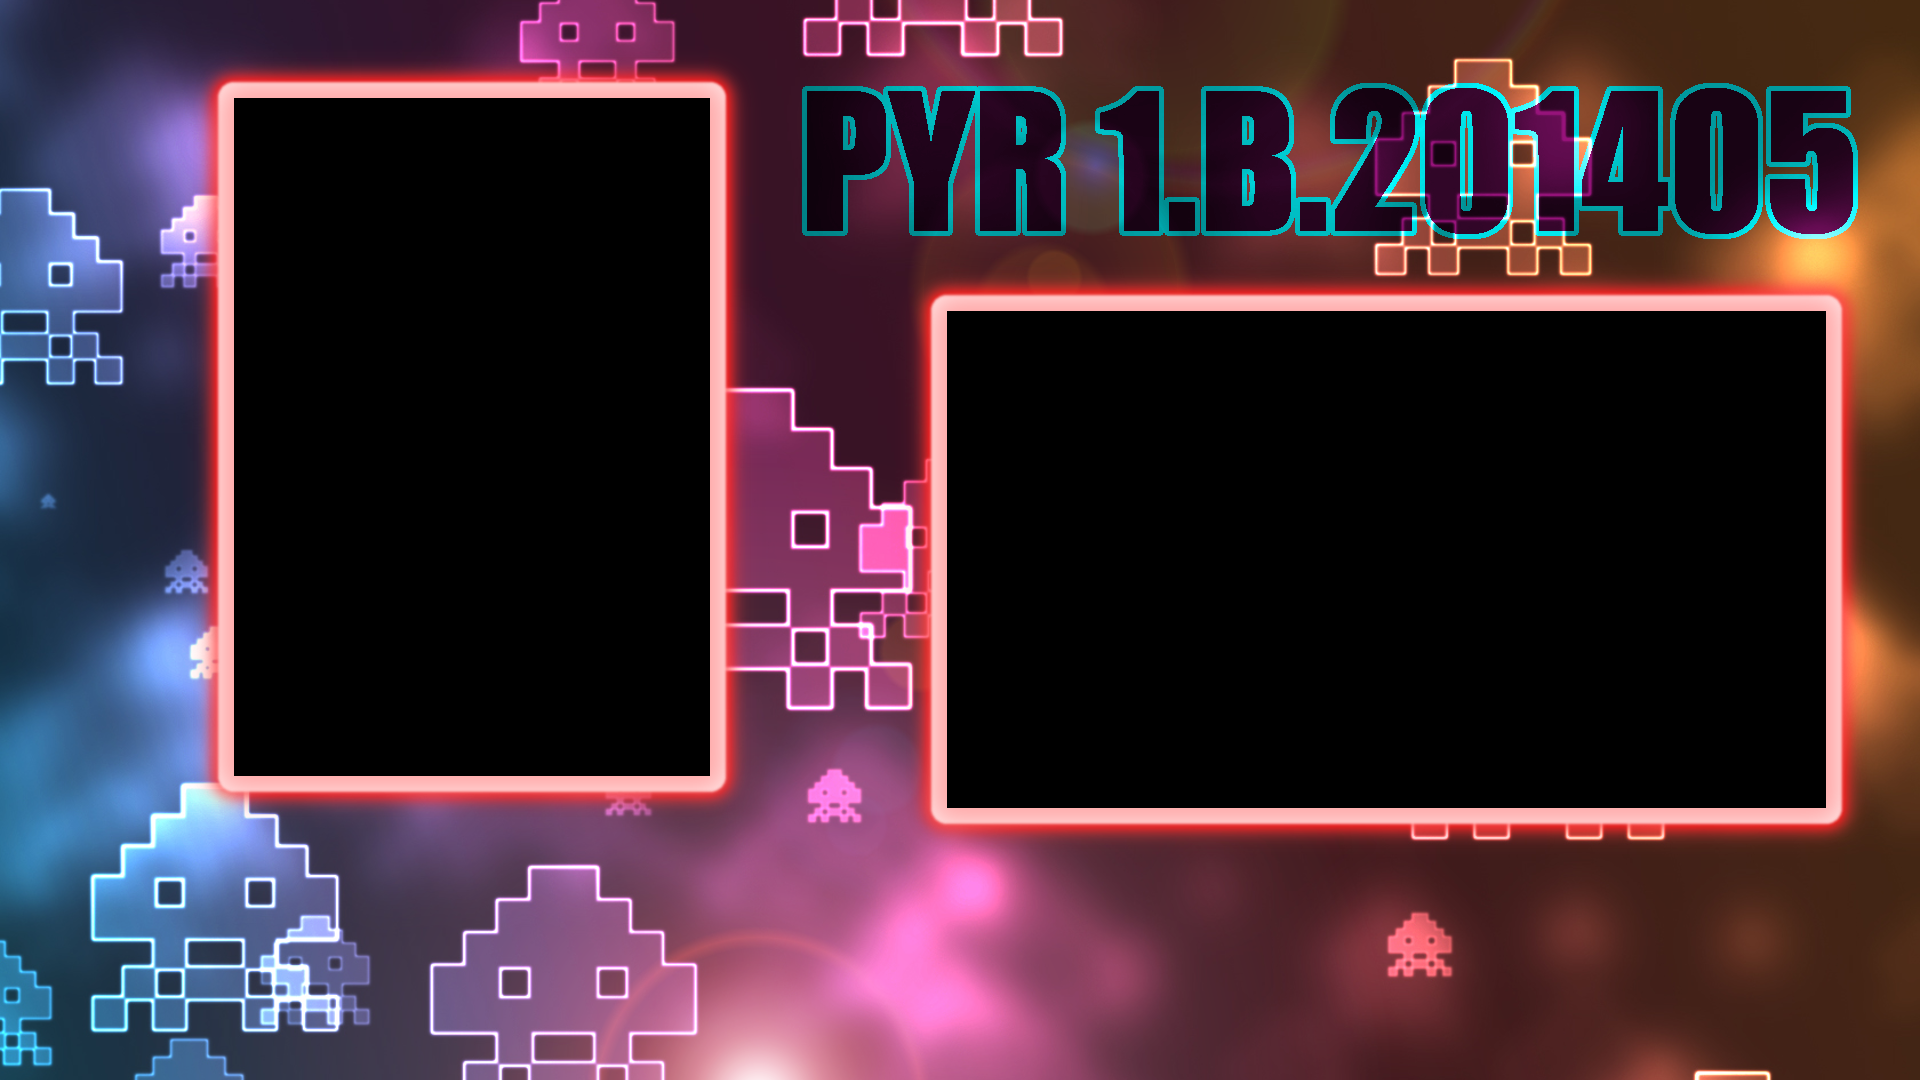
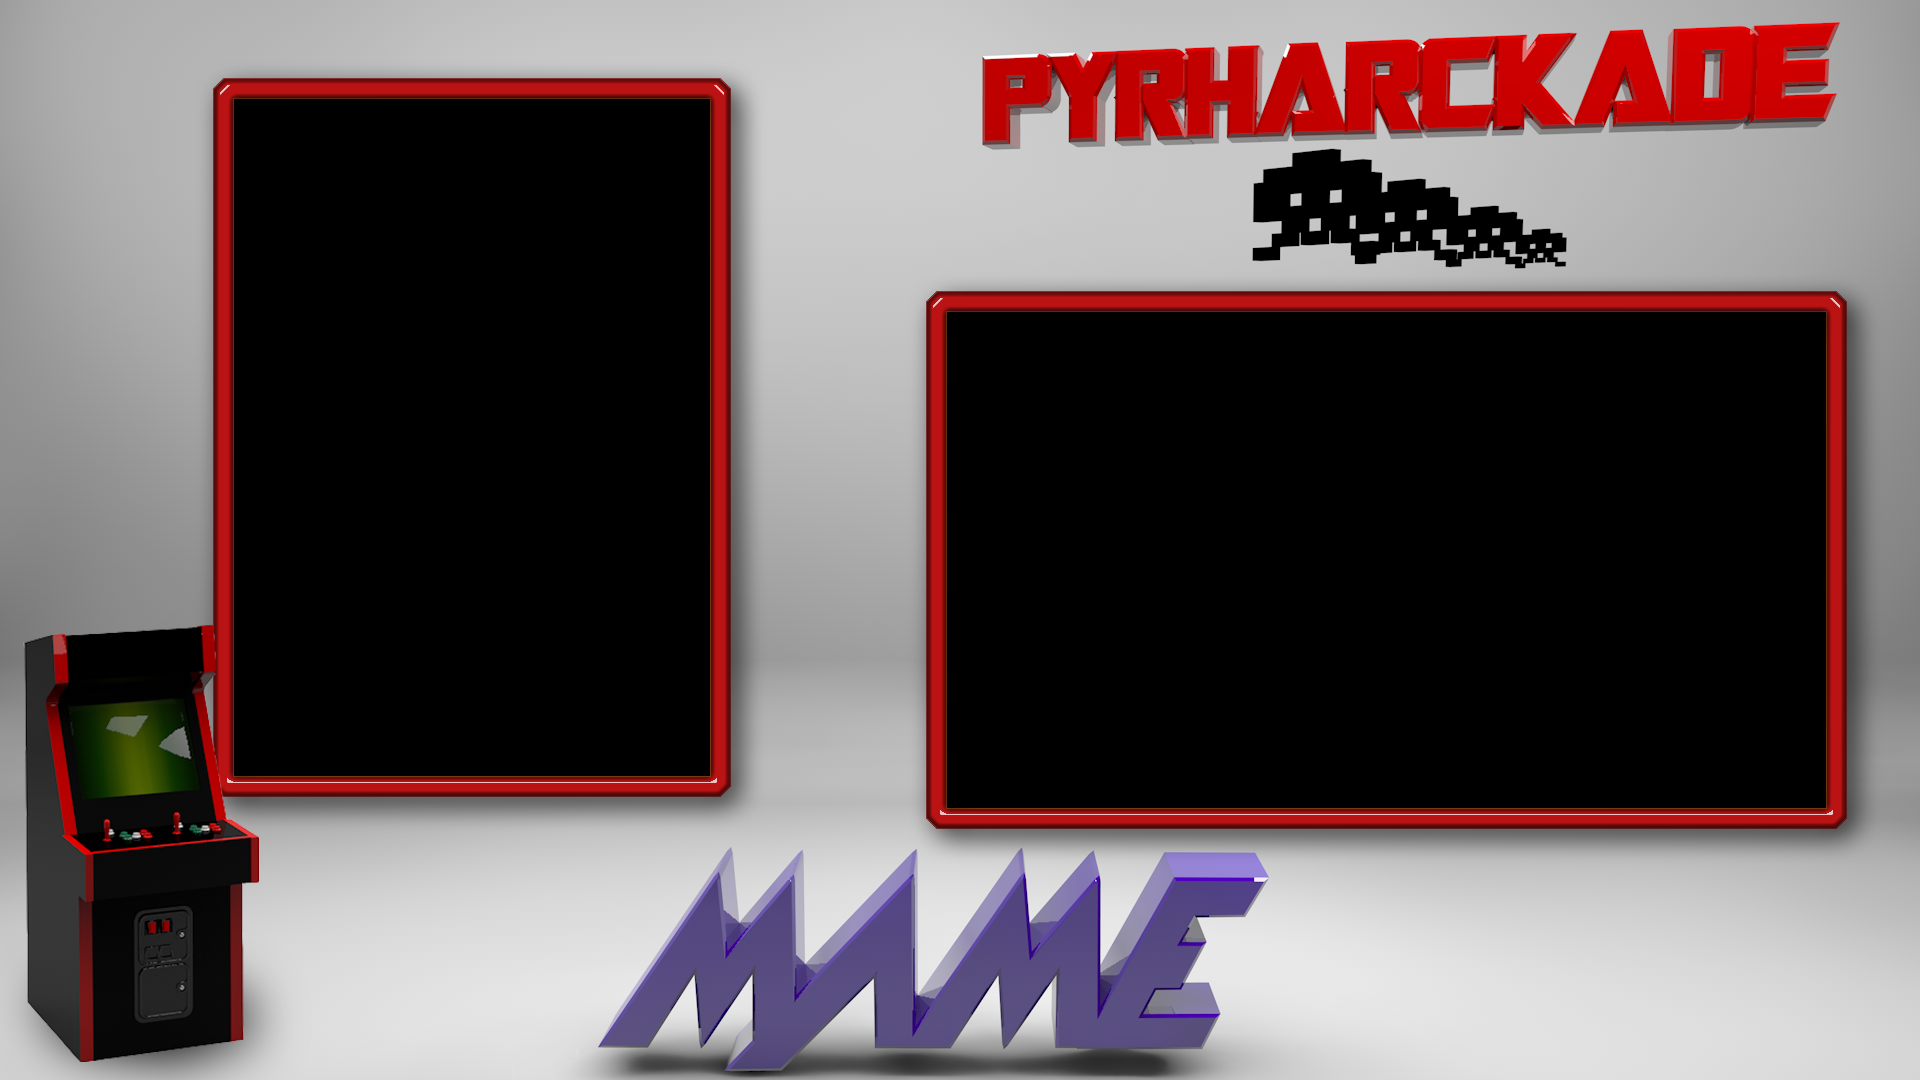
Ajout menu X/Y for SYS IMG

diff --git a/conf.py b/conf.py
@@ -88,9 +88,9 @@ def conf_theme (argument2):
 		DOCS=(ROOT_HOME + "/MEDIA/DOCS/")
 		IMG=(ROOT_HOME + "/MEDIA/IMG/")
 		BACKGROUNG=(ROOT_HOME + "/MEDIA/IMG/bg2_Y.png")
-		BACKGROUNG_EMU=(ROOT_HOME + "/MEDIA/IMG/menu.png")
+		BACKGROUNG_EMU=(ROOT_HOME + "/MEDIA/IMG/menu_Y.png")
 		IMG_EMU = (ROOT_HOME + "/MEDIA/IMG/EMU/")
-		BACKGROUNG_START=(ROOT_HOME + "/MEDIA/IMG/dpfe_welcom.png")
+		BACKGROUNG_START=(ROOT_HOME + "/MEDIA/IMG/dpfe_welcom_Y.png")
 		font_path = "./MEDIA/font.ttf"
 		font_size = 20
 		max_carac = 20
